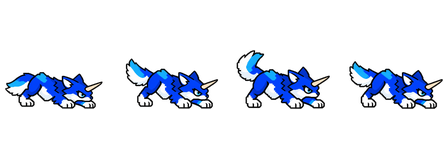
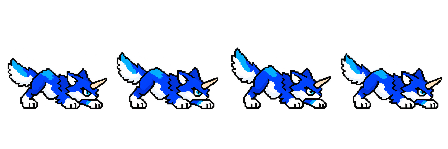
Refine Horned Wolf pixel artwork and speed up subtle synced idle

Changed region(s): [[0.5, 0.3221, 1.0, 0.7517], [0.0, 0.349, 0.5, 0.7517]]

diff --git a/web/static/css/style.css b/web/static/css/style.css
@@ -2005,7 +2005,7 @@ body.landing-page {
 img.chatter-profile-avatar { display: block; }
 .chatter-pet { display: grid; min-width: 122px; justify-items: center; align-self: center; color: var(--text); text-align: center; }
 .chatter-pet-sprite { width: 112px; height: 120px; background-image: var(--pet-sprite); background-position: 0 center; background-repeat: no-repeat; background-size: calc(112px * var(--pet-frames)) auto; image-rendering: pixelated; animation: chatter-pet-idle .72s steps(var(--pet-frames)) infinite; }
-.chatter-pet-sprite--wolf { animation-duration: 2.4s; }
+.chatter-pet-sprite--wolf { animation-duration: 1.2s; }
 .chatter-pet-sprite--fox { animation-duration: 2.4s; }
 .chatter-pet-sprite--rat { animation: chatter-rat-idle 1.8s step-end infinite; }
 .chatter-pet span { margin-top: -10px; font-size: 11px; font-weight: 800; }

diff --git a/docs/pets.md b/docs/pets.md
@@ -67,6 +67,6 @@ Duplicates return points to the ticket's original purchase channel, without loya
 
 ### Horned Wolf preview
 
-Migration 59 adds Horned Wolf with the approved four-frame artwork in `assets/Horned Wolf.png`. The profile plays the strip using its existing CSS sprite animation at a 2.4-second cycle; no generated GIF or procedural breathing warp is used. Frames are packed into equal cells with a shared ground baseline.
+Migration 59 adds Horned Wolf with the approved four-frame artwork in `assets/Horned Wolf.png`. The pixel-art strip synchronizes subtle breathing with the tail rising on inhale and lowering on exhale. The profile plays the four frames using its existing CSS sprite animation at a 1.2-second cycle; no generated GIF or procedural breathing warp is used. Frames are packed into equal cells with a shared ground baseline.
 
 Grant and equip it for UAT preview: `sudo -u rats-bot .venv/bin/python -m scripts.grant_poc_pet <tester_login> --pet wolf`. An owned wolf can also be equipped with `!pets equip Horned Wolf`.
